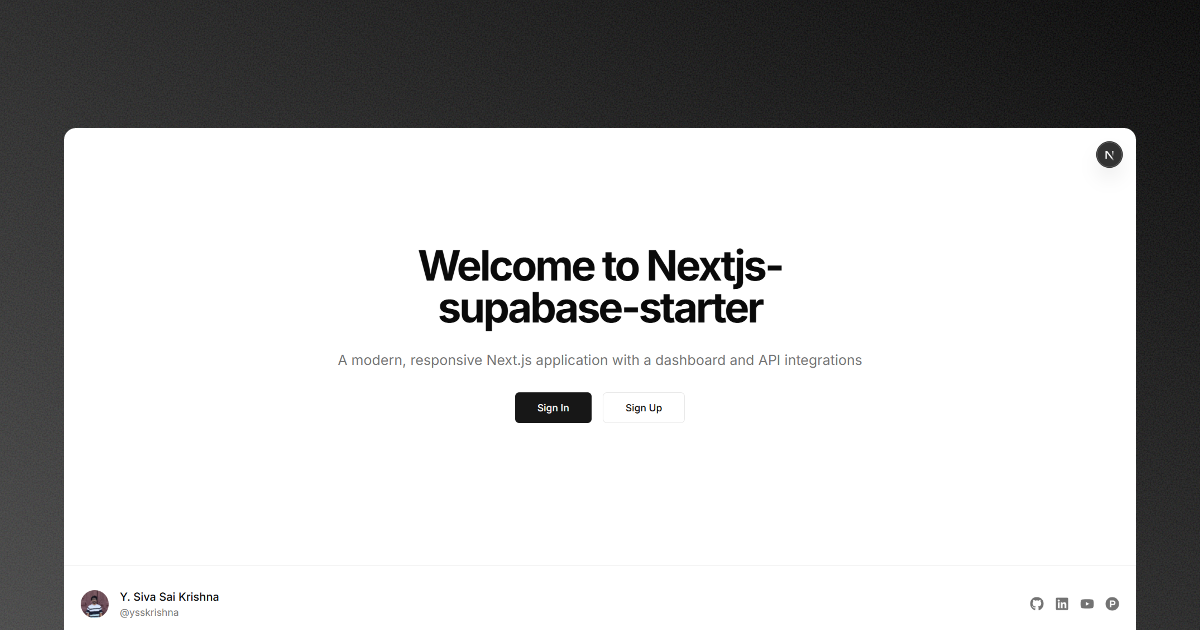
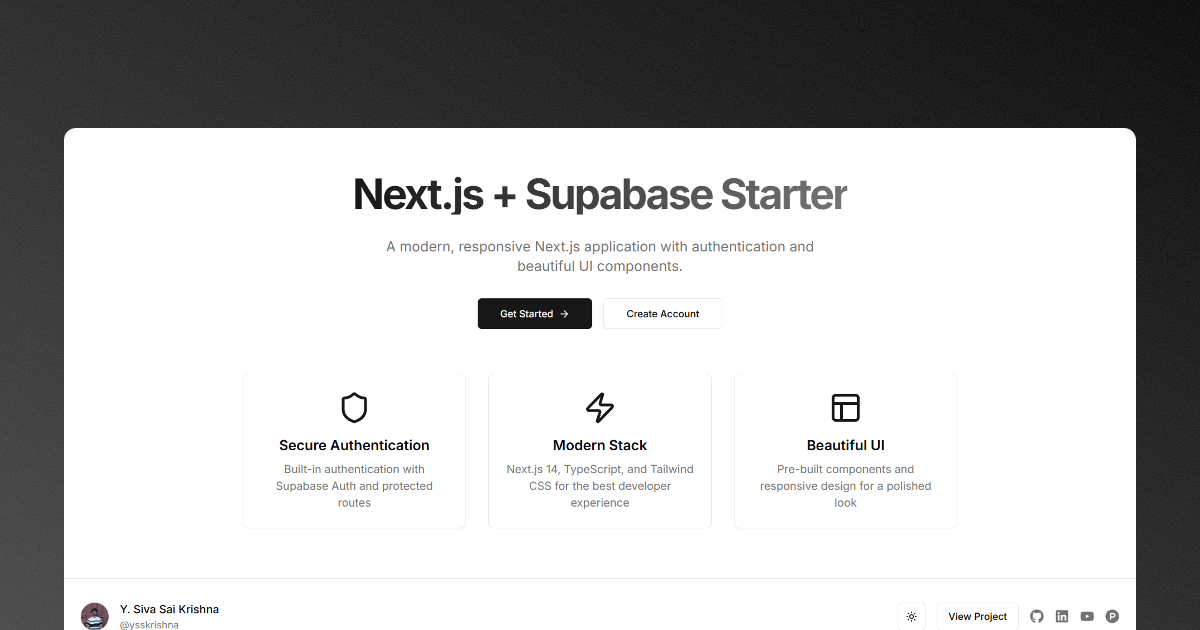
Siva | update images and documentation

diff --git a/DOCUMENTATION.md b/DOCUMENTATION.md
@@ -1,0 +1,70 @@
+# Supabase Setup
+
+Supabase is an open-source backend-as-a-service platform that provides a suite of tools for building applications, including authentication, database, storage, and more. Setting up Supabase for your project is straightforward.
+
+## Steps to Set Up Supabase
+
+1. **Create a Supabase Account**
+   - Go to [Supabase](https://supabase.com/) and sign up for a free account.
+
+2. **Create a New Project**
+   - After logging in, click on `New Project`.
+   - Enter your project name, password, and select the region closest to you.
+   - Click `Create new project`.
+
+3. **Get API Keys and Project URL**
+   - Once your project is created, navigate to the `Project Settings` > `API` section.
+   - Copy your `Project URL` and `anon`/`service_role` keys. These will be used in your application to connect to Supabase.
+
+4. **Configure Environment Variables**
+   - In your project, add the following environment variables (e.g., in a `.env.local` file for Next.js):
+     ```env
+     NEXT_PUBLIC_SUPABASE_URL=your-project-url
+     NEXT_PUBLIC_SUPABASE_ANON_KEY=your-anon-key
+     ```
+
+
+**References:**
+- [Supabase Docs: Getting Started](https://supabase.com/docs/guides/getting-started)
+- [Supabase GitHub](https://github.com/supabase/supabase)
+
+---
+
+# Google Project Setup for Supabase (OAuth)
+
+To enable Google authentication in Supabase, you need to set up a Google Cloud project and configure OAuth credentials.
+
+## Steps to Set Up Google Project for Supabase
+
+1. **Create a Google Cloud Project**
+   - Go to the [Google Cloud Console](https://console.cloud.google.com/).
+   - Click on the project dropdown and select `New Project`.
+   - Enter a project name and click `Create`.
+
+2. **Enable OAuth Consent Screen**
+   - In the left sidebar, go to `APIs & Services` > `OAuth consent screen`.
+   - Choose `External` and click `Create`.
+   - Fill in the required fields (app name, user support email, developer contact info).
+   - Save and continue.
+
+3. **Create OAuth 2.0 Credentials**
+   - Go to `APIs & Services` > `Credentials`.
+   - Click `+ CREATE CREDENTIALS` > `OAuth client ID`.
+   - Choose `Web application`.
+   - Add the following to `Authorized redirect URIs` (replace `<project-ref>` with your Supabase project ref):
+     ```
+     https://<project-ref>.supabase.co/auth/v1/callback
+     ```
+   - Click `Create` and copy the `Client ID` and `Client Secret`.
+
+4. **Configure Supabase Auth Settings**
+   - In the Supabase dashboard, go to `Authentication` > `Providers` > `Google`.
+   - Paste the `Client ID` and `Client Secret` from Google Cloud.
+   - Save the changes.
+
+5. **Test Google Sign-In**
+   - Use the Supabase Auth API or client libraries to trigger Google sign-in in your app.
+
+**References:**
+- [Supabase Docs: Google Auth](https://supabase.com/docs/guides/auth/auth-google)
+- [Google Cloud Docs: OAuth 2.0 Setup](https://developers.google.com/identity/protocols/oauth2)

diff --git a/README.md b/README.md
@@ -2,6 +2,12 @@
 
 A modern Library Management System built with Next.js 15 and Supabase, featuring a beautiful UI powered by Radix UI components and Tailwind CSS.
 
+## Demo
+
+- **URL:** [https://ysskrishna-nextjs-supabase-starter.vercel.app/](https://ysskrishna-nextjs-supabase-starter.vercel.app/)
+- **Email:** `demo@gmail.com`
+- **Password:** `demopassword`
+
 ## Features
 
 - 🔐 Authentication system with Supabase
@@ -9,6 +15,20 @@ A modern Library Management System built with Next.js 15 and Supabase, featuring
 - 🎨 Modern UI components from Radix UI
 - 📊 Dashboard interface
 - 🎯 TypeScript support
+
+## Screenshots
+
+### Landing Page:
+![Landing](/media/landing.png)
+
+### SignUp Page:
+![Sign Up](/media/signup.png) 
+
+### SignIn Page:
+![Sign In](/media/signin.png) 
+
+### Dashboard Page:
+![Dashboard](/media/dashboard.png)
 
 ## Tech Stack
 
